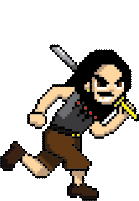
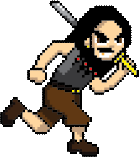
Fixed typo in Toolbar.java, removed unneeded whitespace in images

diff --git a/src/com/bbr/mapeditor/Toolbar.java b/src/com/bbr/mapeditor/Toolbar.java
@@ -23,7 +23,7 @@ public class Toolbar extends JPanel implements MouseListener {
 		"res/levels/level1/platform/platform.png", 
 		"res/terrain/dirt-platform-red.png", "res/ui/editor/exitIcon.png" 
 	};
-	private static final String GLOW_PATH = "res/ui/edtor/yellow_glow.png";
+	private static final String GLOW_PATH = "res/ui/editor/yellow_glow.png";
 
 	private SwingMenu toolbar;
 	private Tools currentTool = Tools.SPAWN;
